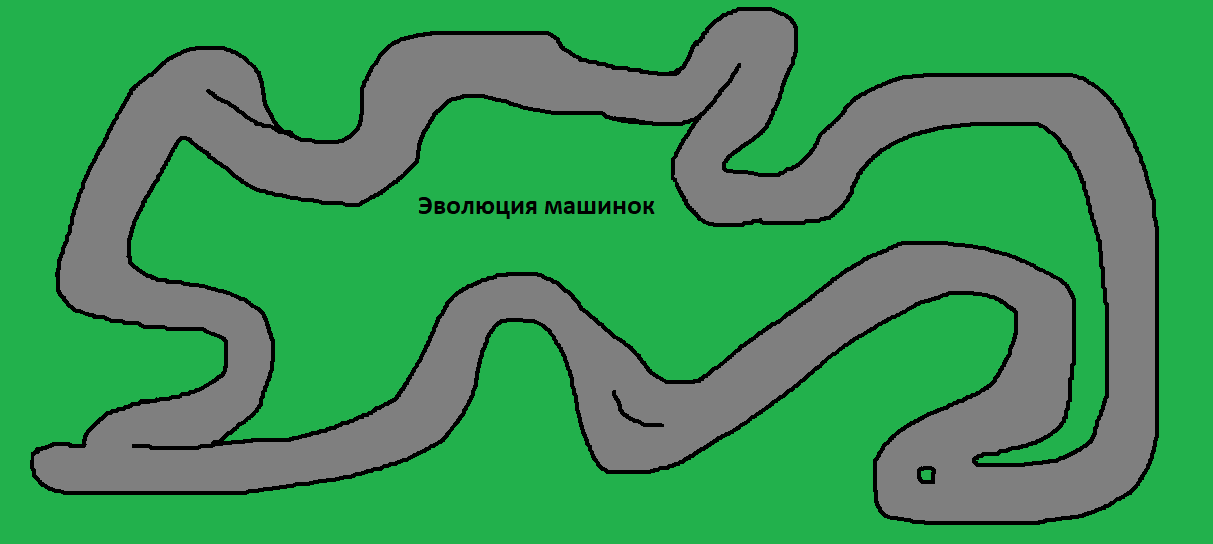
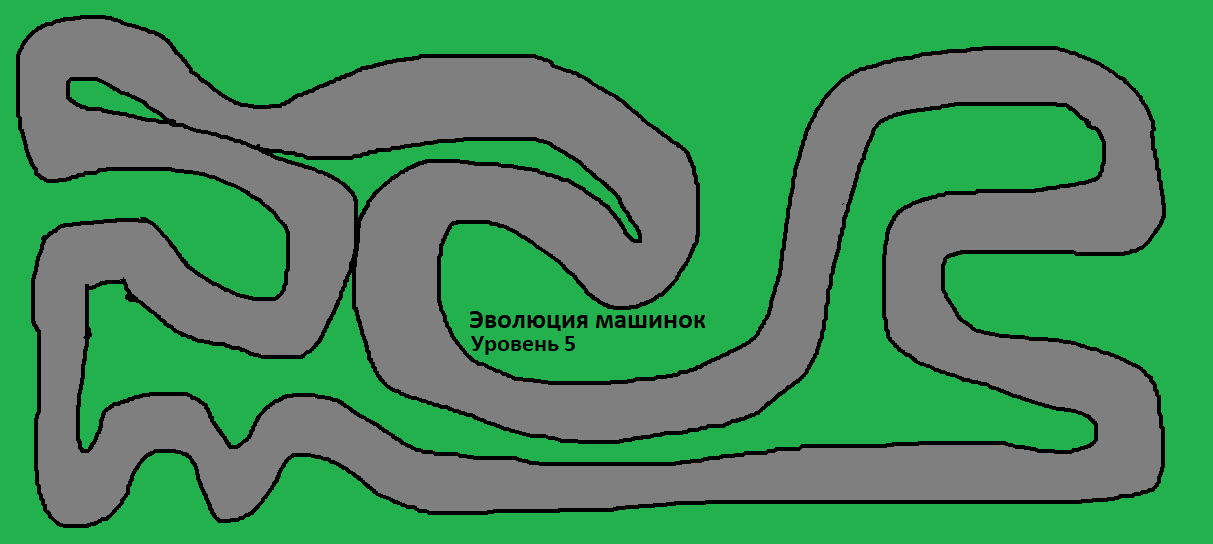
commit

diff --git a/main.py b/main.py
@@ -3,17 +3,61 @@ import math
 from random import random
 
 
+def draw_NN(xs, ys, size, window, brain, input):
+    neurons = [input]
+    list_weight = []
+    for layer in range(len(brain)):
+        neurons.append(len(brain[layer]) // neurons[-1])
+        list_weight += brain[layer]
+    max_neuron = max(neurons)
+
+    all_cord = []
+    for layer in range(len(neurons)):
+        cord = []
+        for i in range(neurons[layer]):
+            k = (max_neuron - neurons[layer]) / 2 * size * 3
+            x, y = xs + size * 15 * layer, ys + k + i * size * 3
+            pg.draw.circle(window, [0, 0, 0], (x, y), size)
+            cord.append((x, y))
+        all_cord.append(cord)
+
+    k = 0
+    minl = min(list_weight)
+    for i in range(len(all_cord)-1):
+        for x, y in all_cord[i]:
+            for x1, y1 in all_cord[i+1]:
+                color = [int((list_weight[k]-minl)/(max(list_weight)-minl) * 250)]*3
+                pg.draw.line(window, color, (x, y), (x1, y1))
+                k += 1
+
+
 class Car:
     def __init__(self, x, y, window, background):
         k = int(random()*6)+1
         image = pg.image.load('images/car' + str(k) + '.png')
-        # image.set_colorkey((255, 255, 255))
         image = pg.transform.rotate(image, 90)
 
-        self.brain = [[(random()-0.5) for _ in range(40)],
-                      [(random()-0.5) for _ in range(16)]]
-        # self.brain = [[1.175, 0.509, -0.161, -2.653, -1.304, 0.665, -0.171, 2.652, -1.224, 0.046, 1.268, -0.635, -0.256, 0.354, -0.134, -2.026, -0.014, 1.11, -2.907, -0.084, -0.133, -1.339, -1.984, -1.279, 1.267, -0.664, -2.082, 3.788, -2.847, 1.558, -0.235, -1.408, 3.072, 0.359, -1.369, 0.153, 0.416, 0.988, -0.702, 2.594],
-        #               [1.022, -0.789, 1.219, -0.413, -2.422, 2.486, 1.358, 2.981, -0.944, -1.224, -1.306, 0.533, 0.717, -0.135, -1.511, -4.478]]
+        # self.brain = [[(random()-0.5) for _ in range(40)],
+        #               [(random()-0.5) for _ in range(16)]]
+
+        # self.brain = [[22.84314458508083, -2.403786660213477, 4.067291338767675, -0.17535794537611993, -18.588607027629543,
+        #   0.9063969558308813, 13.668292261966467, -9.633478402673452, -23.061376875688893, -4.9157912384614715,
+        #   7.368097090186204, 1.6835219424434833, 5.667847200524733, -20.366387560709352, -36.080943080583715,
+        #   -20.469515530218285, -15.08489601214686, 1.1635338168581209, 3.701625122988467, 18.70740951741545,
+        #   -7.717373947595668, -15.108877866065743, 4.191617367320692, -11.395812655607875, -8.823872282794799,
+        #   -9.996330901436945, -7.304448546309481, 0.12063035002865745, -7.079232422239365, 22.13100851499116,
+        #   -18.828551988300475, -4.1196580158521305, -2.4677846981351443, -8.787015826609935, 0.21528613185762008,
+        #   -0.1244595722625797, -4.833825099853969, -8.758510801836945, 8.831100182149097, -18.9785963488911],
+        #  [-0.8679404350638094, -24.56595774048922, -1.0714558828437029, 3.978776934645174, 7.997781732048607,
+        #   5.69903247169785, -7.964746853149648, -0.30293168447046637, 9.115951369708194, -4.886571208722541,
+        #   -5.256817214352713, -26.266776138250183, -0.47471345065048887, -21.835102456964062, -5.638944208869452,
+        #   26.27073401077757]]
+
+        self.brain = [[(random()-0.5) for _ in range(30)],
+                      [(random()-0.5) for _ in range(24)],
+                      [(random()-0.5) for _ in range(8)]]
+
+        # self.brain = [[(random()-0.5) for _ in range(10)]]
 
         self.car = pg.transform.scale(image, (20, 33))
         self.window, self.background = window, background
@@ -74,7 +118,8 @@ class Car:
 
     def move(self):
         lengths = self.get_lengths([-90, 45, 0, 45, 90])
-        speed, a = self.think([l / 100 for l in lengths])
+
+        speed, a = self.think([leng / 100 for leng in lengths])
 
         self.speed = int(speed * 10)
         self.ang += int((a - 0.5) * 10)
@@ -114,14 +159,15 @@ while game:
                          + '   Шаг ' + str(step), True, (0, 50, 0))
     window.blit(render, (10, 10))
 
-    test = False
+    num_live = 0
     for car in cars:
         if not car.crash:
-            test = True
+            num_live += 1
             car.move()
-            car.draw()
+            if num_live == 1:
+                car.draw()
 
-    if not test or step > 2000:
+    if num_live == 0 or step > 2000:
         step = 0
         gener += 1
 
@@ -138,6 +184,8 @@ while game:
 
         cars = children
 
+    draw_NN(10, 470, 3, window, cars[0].brain, 5)
+
     pg.display.flip()
 
     for e in pg.event.get():
@@ -147,8 +195,8 @@ while game:
         if e.type == pg.KEYUP:
             if e.key == pg.K_g:
                 print(cars[0].brain)
-            if e.key in [pg.K_1, pg.K_2, pg.K_3, pg.K_4]:
-                level = [pg.K_1, pg.K_2, pg.K_3, pg.K_4].index(e.key) + 1
+            if e.key in [pg.K_1, pg.K_2, pg.K_3, pg.K_4, pg.K_5]:
+                level = [pg.K_1, pg.K_2, pg.K_3, pg.K_4, pg.K_5].index(e.key) + 1
                 background = pg.image.load('images/background' + str(level) + '.png')
 
     if pg.key.get_pressed()[pg.K_UP]:
@@ -162,4 +210,3 @@ while game:
 
     if pg.key.get_pressed()[pg.K_LEFT] and FPS > 1:
         FPS -= 1
-
